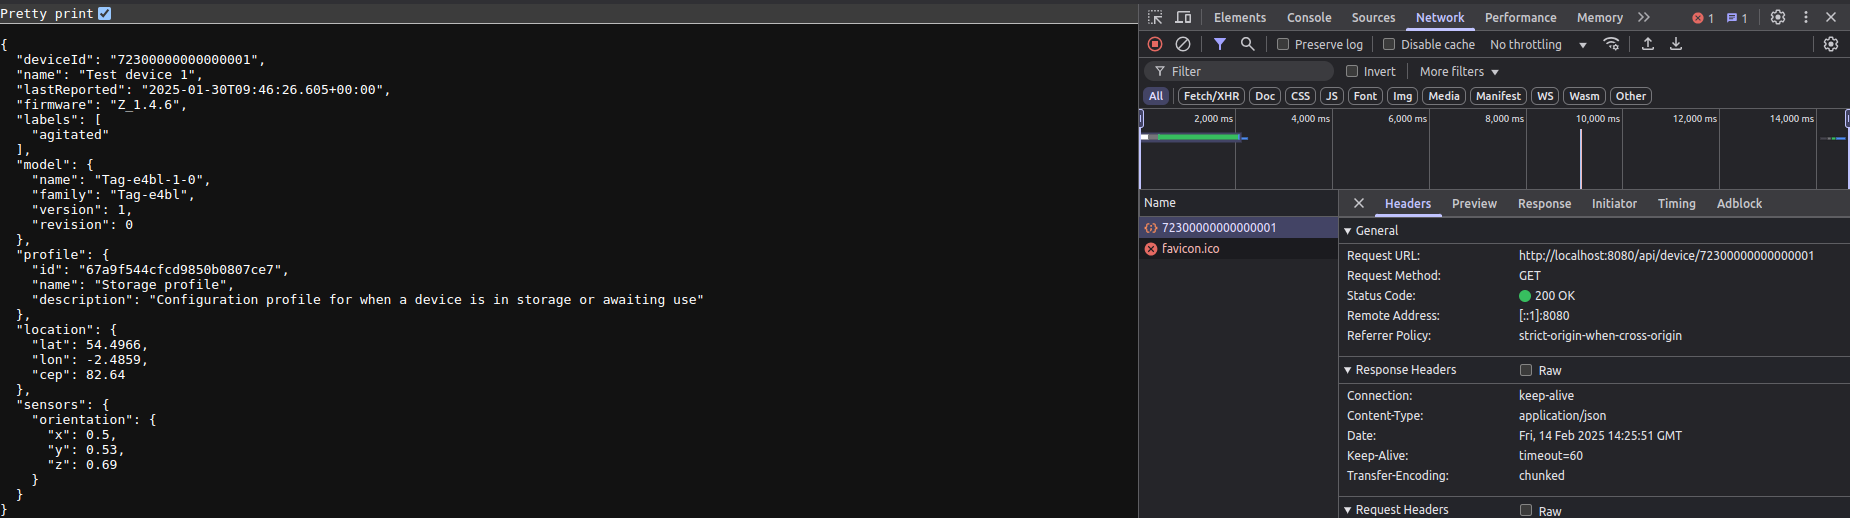
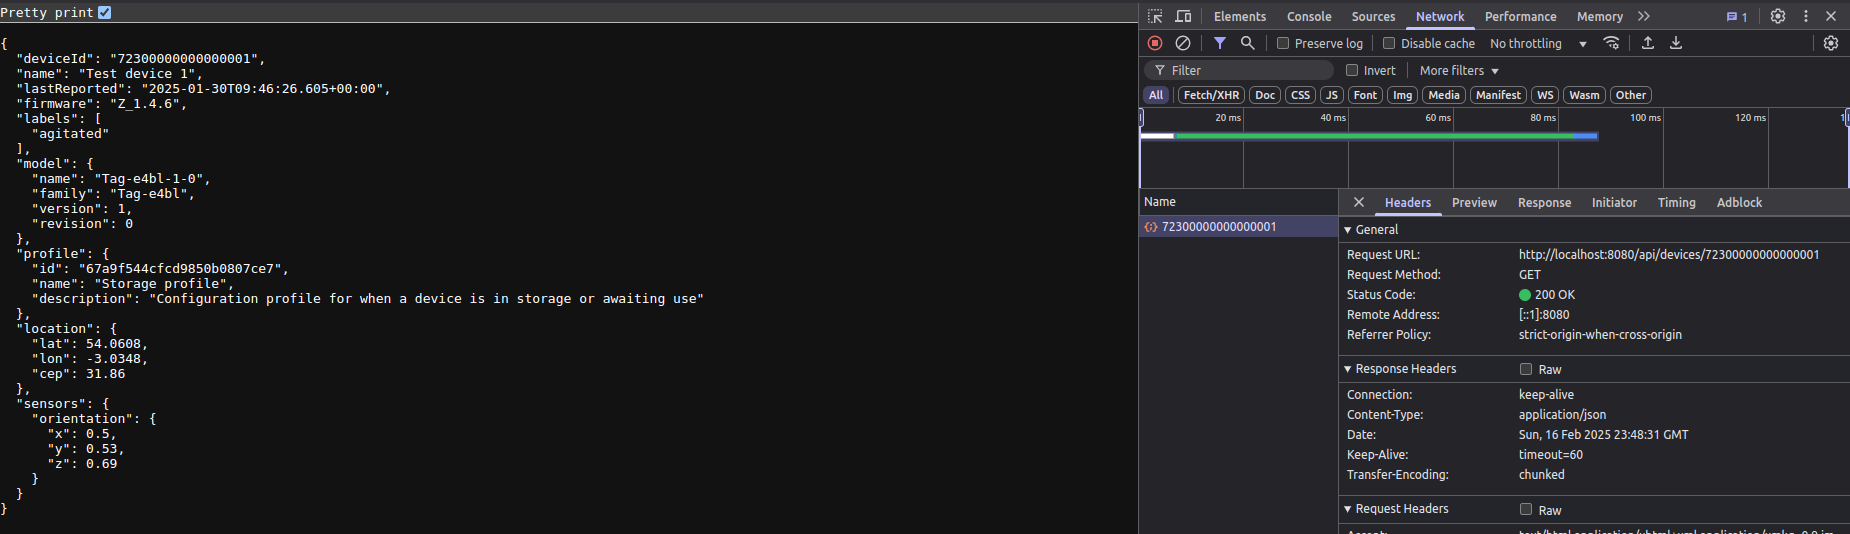
Updated the GetDevice.png with the updatd URI

Changed region(s): [[0.6162, 0.3398, 1.0, 1.0], [0.0, 0.0, 1.0, 0.278], [0.0, 0.0927, 0.4005, 0.9266]]

diff --git a/README.md b/README.md
@@ -56,4 +56,4 @@ ngodb.net:27017 with max election id 7fffffff00000000000000db and max set versio
 
 The API can be viewed in the browser. Below is a screenshot of sending a GET rquest to the GetDevice endpoint.
 
-![alt text](../GetDevice.png)
+![alt text](GetDevice.png)
